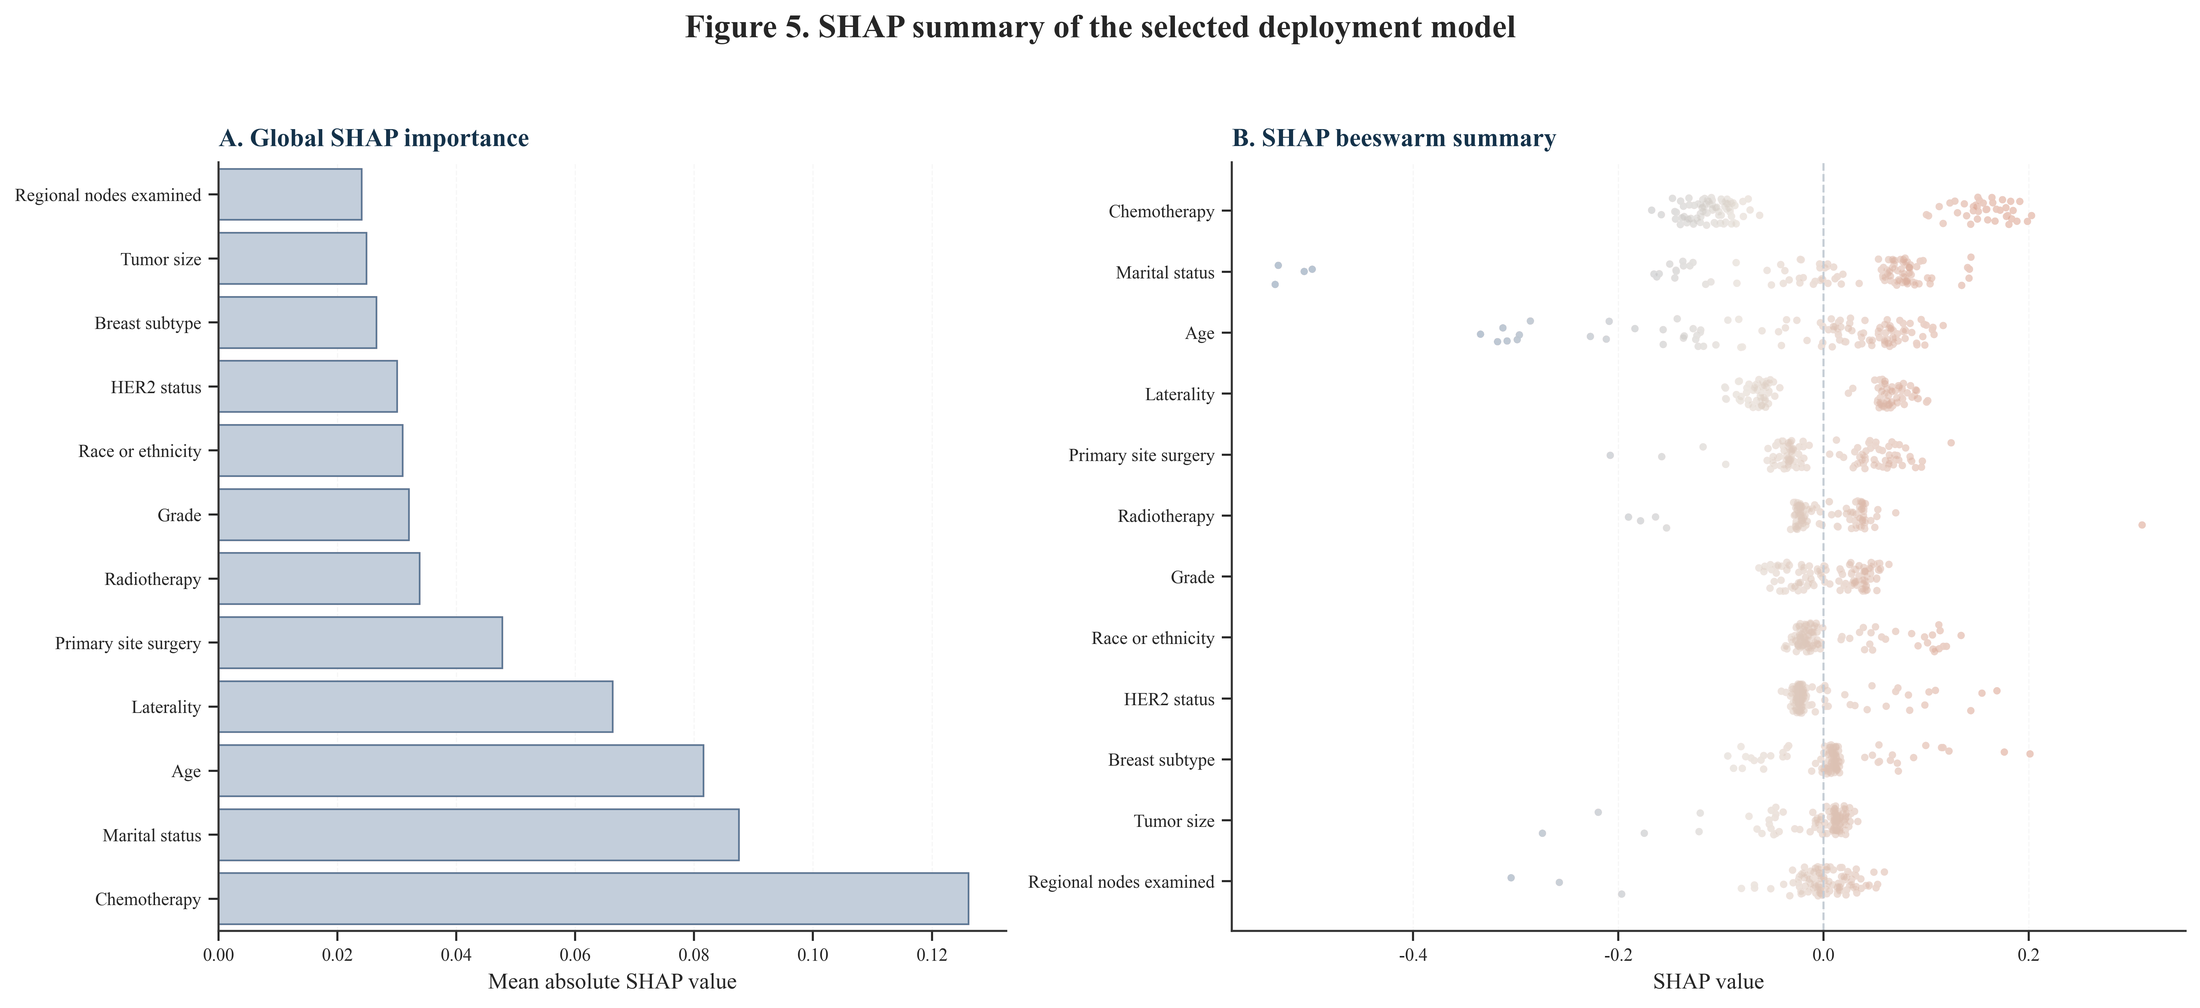
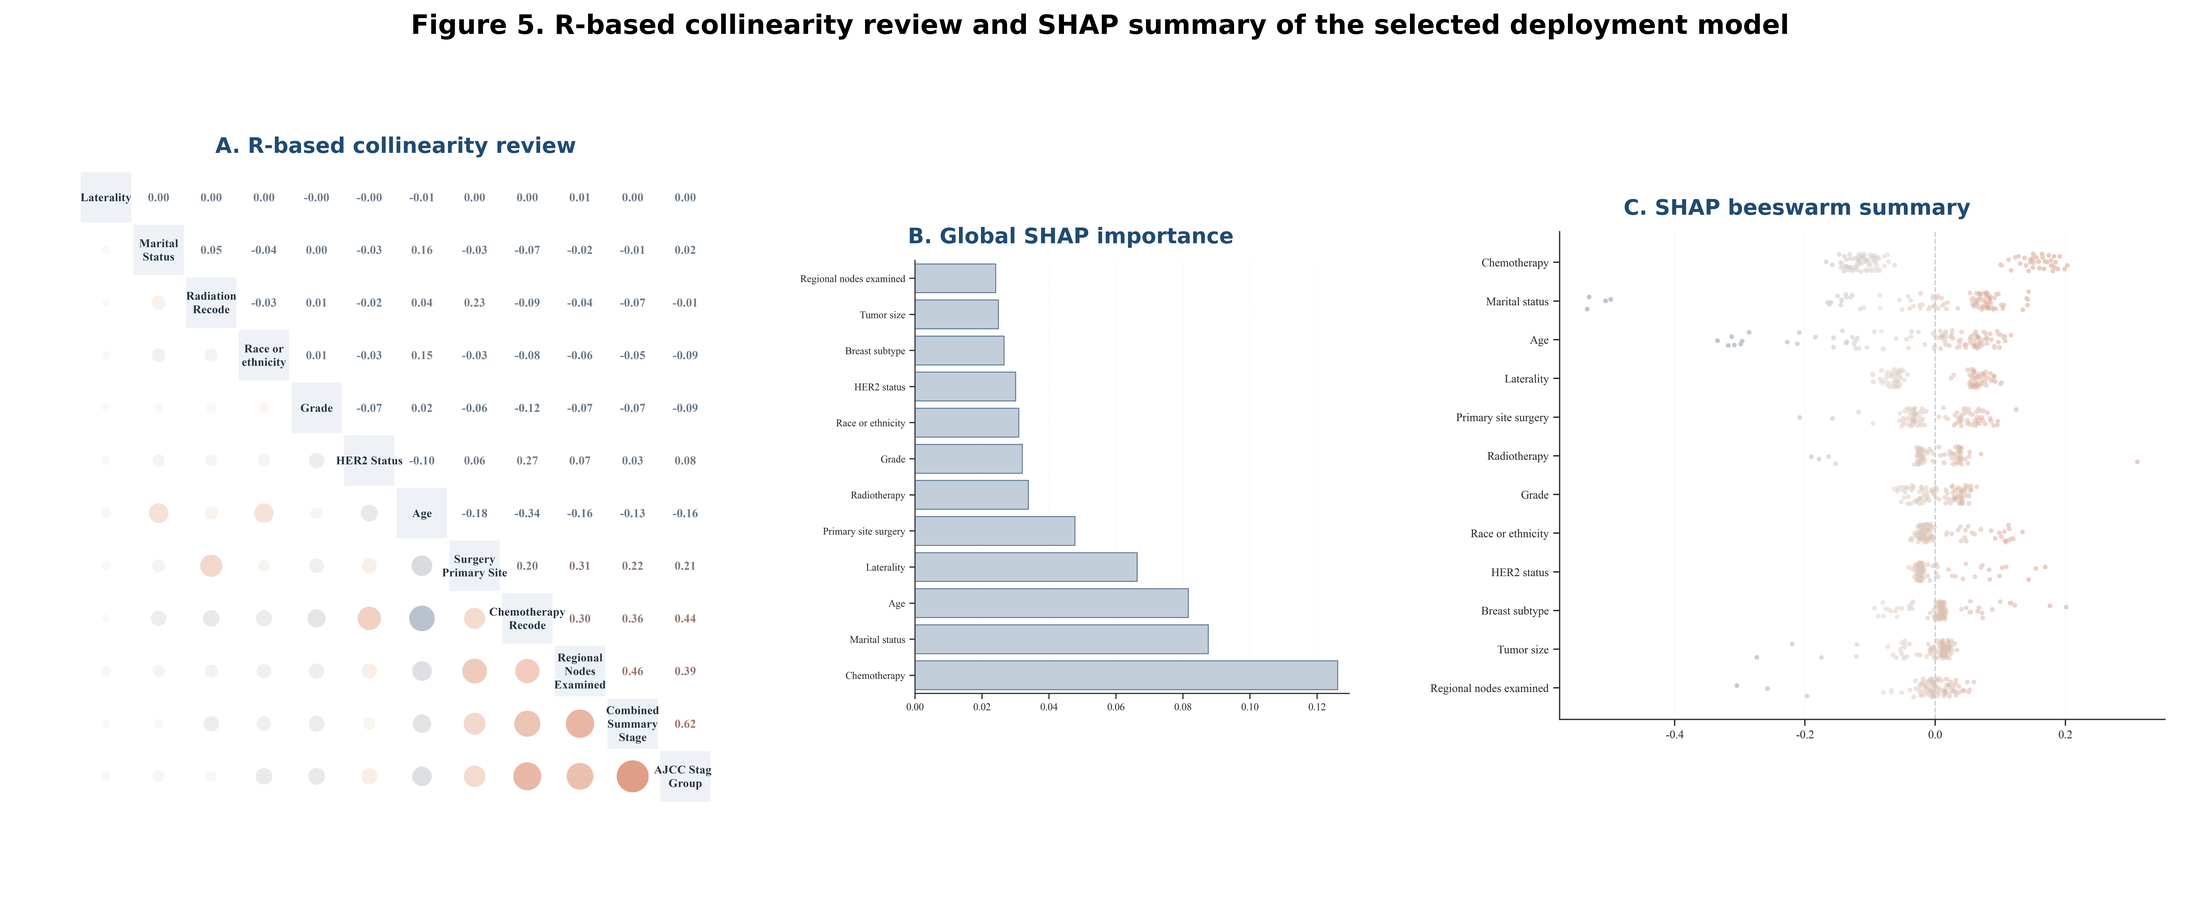
Refresh collinearity and SHAP web figures

diff --git a/index.html b/index.html
@@ -216,7 +216,7 @@
             <article class="gallery-card" data-reveal data-delay="5">
               <img src="assets/figures/main/figure-5.png" alt="Figure 5">
               <div class="metric-value" style="font-size:22px; margin-top:0;">Figure 5</div>
-              <p class="gallery-caption">SHAP summary of the selected deployment model. Panel A shows the global SHAP ranking by mean absolute SHAP value. Panel B shows a SHAP beeswarm summary, with each point representing a patient-level SHAP contribution for one aggregated feature.</p>
+              <p class="gallery-caption">R-based collinearity review and SHAP summary of the selected deployment model. Panel A shows a clustered R-based correlogram of the retained clinicopathologic features using the encoded matrix preserved for collinearity review. Panel B shows the global SHAP ranking by mean absolute SHAP value. Panel C shows a SHAP beeswarm summary, with each point representing a patient-level SHAP contribution for one aggregated feature.</p>
             </article>
             
             <article class="gallery-card" data-reveal data-delay="1">
@@ -247,7 +247,7 @@
             <article class="gallery-card" data-reveal data-delay="4">
               <img src="assets/figures/supplementary/efigure-4.png" alt="eFigure 4">
               <div class="metric-value" style="font-size:22px; margin-top:0;">eFigure 4</div>
-              <p class="gallery-caption">R-based Pearson correlation heatmap of the retained clinicopathologic feature matrix used for post-screening collinearity review. The panel is intended to show correlation structure rather than to justify arbitrary pre-model feature removal.</p>
+              <p class="gallery-caption">Standalone R-based clustered collinearity panel of the retained clinicopathologic feature matrix used for post-screening review. Lower-triangle bubbles summarize the magnitude and direction of Pearson correlations from the encoded matrix, whereas the upper triangle reports the corresponding coefficients.</p>
             </article>
             
             <article class="gallery-card" data-reveal data-delay="5">

diff --git a/assets/downloads/Figure Legends.md b/assets/downloads/Figure Legends.md
@@ -13,7 +13,7 @@ Temporal calibration and decision-curve analysis for the selected deployment mod
 Youden-anchored temporal risk-group presentation. Panel A shows mean predicted 5-year risk across low-, intermediate-, and high-risk groups defined by probability bands of <0.0022, 0.0022 to <0.0028, and >=0.0028. Panel B shows the corresponding observed 5-year event rates with event counts.
 
 ## Figure 5
-SHAP summary of the selected deployment model. Panel A shows the global SHAP ranking by mean absolute SHAP value. Panel B shows a SHAP beeswarm summary, with each point representing a patient-level SHAP contribution for one aggregated feature.
+R-based collinearity review and SHAP summary of the selected deployment model. Panel A shows a clustered R-based correlogram of the retained clinicopathologic features using the encoded matrix preserved for collinearity review. Panel B shows the global SHAP ranking by mean absolute SHAP value. Panel C shows a SHAP beeswarm summary, with each point representing a patient-level SHAP contribution for one aggregated feature.
 
 ## Figure 6
 Public static manuscript showcase and deployment preview. The figure shows the web-facing translation surface used to present the locked manuscript figures, risk-group thresholds, and downloadable study materials. The public static URL is https://breast-thyroid-spc-risk-site.onrender.com.
@@ -30,7 +30,7 @@ All-model temporal decision-curve analysis. Panel A shows the six machine-learni
 Temporal precision-recall detail. Panel A preserves the full 0-1 precision scale, whereas Panel B zooms into the low-precision range that contains the dominant signal for this low-incidence endpoint.
 
 ## eFigure 4
-R-based Pearson correlation heatmap of the retained clinicopathologic feature matrix used for post-screening collinearity review. The panel is intended to show correlation structure rather than to justify arbitrary pre-model feature removal.
+Standalone R-based clustered collinearity panel of the retained clinicopathologic feature matrix used for post-screening review. Lower-triangle bubbles summarize the magnitude and direction of Pearson correlations from the encoded matrix, whereas the upper triangle reports the corresponding coefficients.
 
 ## eFigure 5
 LASSO coefficient path for the leading candidate predictors across the regularization range.

diff --git a/README.md b/README.md
@@ -1,18 +1,10 @@
-# Breast-to-Thyroid SPC Web Showcase
+# Web Calculator Use
 
-[![Deploy to Render](https://render.com/images/deploy-to-render-button.svg)](https://render.com/deploy?repo=https://github.com/xiaoxiong0913/breast-thyroid-spc-risk-site)
+This project now includes a public static manuscript-facing deployment plus mirrored local review bundles.
 
-This repository contains the public static-site bundle for the breast-to-thyroid second-primary-thyroid-cancer manuscript showcase.
+1. Open `https://breast-thyroid-spc-risk-site.onrender.com` for the public static site.
+2. Open `E:\Codex\projects\breast_thyroid_spc_rebuild_20260403_0914\论文Web展示\index.html` for the root local manuscript-facing gallery view.
+3. Open `index.html` in `output/web_public_bundle/` for the workspace local review bundle.
+4. Use `web_full.png` as the locked preview screenshot for submission-side supplementary materials.
 
-What it includes:
-
-- repaired manuscript figure gallery
-- temporal validation highlights
-- locked risk-group presentation
-- downloadable manuscript-side files and tables
-
-Scope note:
-
-- This is a public manuscript-facing static site.
-- It is not a live bedside prediction API.
-- The locked truth package did not include a publishable locked runtime bundle, so public wording should remain “web showcase” rather than “interactive deployed calculator”.
+The public deployment is a static showcase and should not be described as an interactive risk calculator or prediction API.
